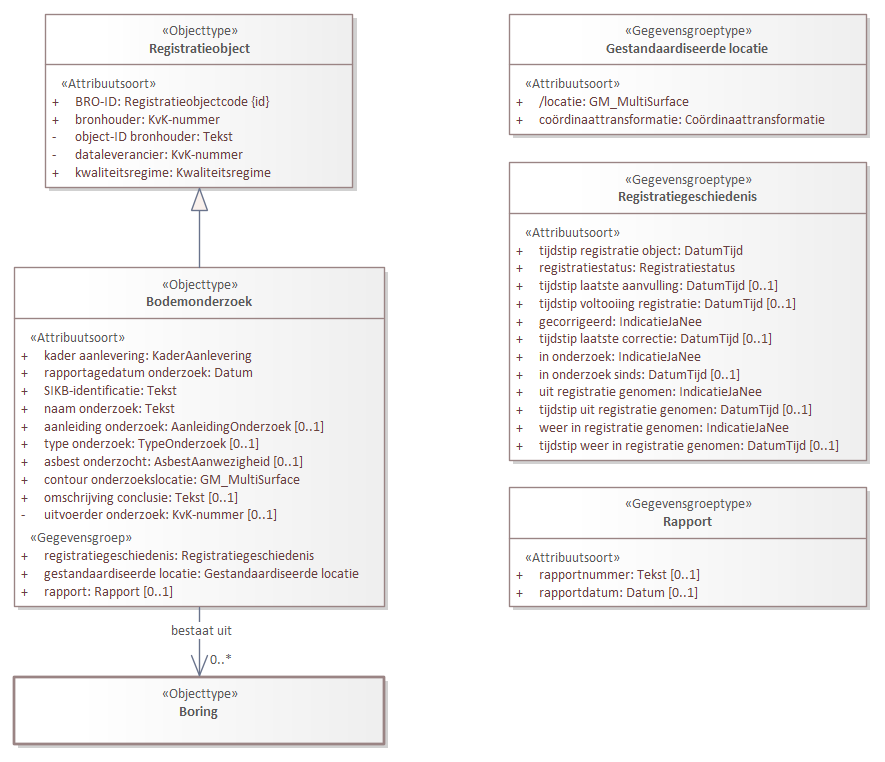
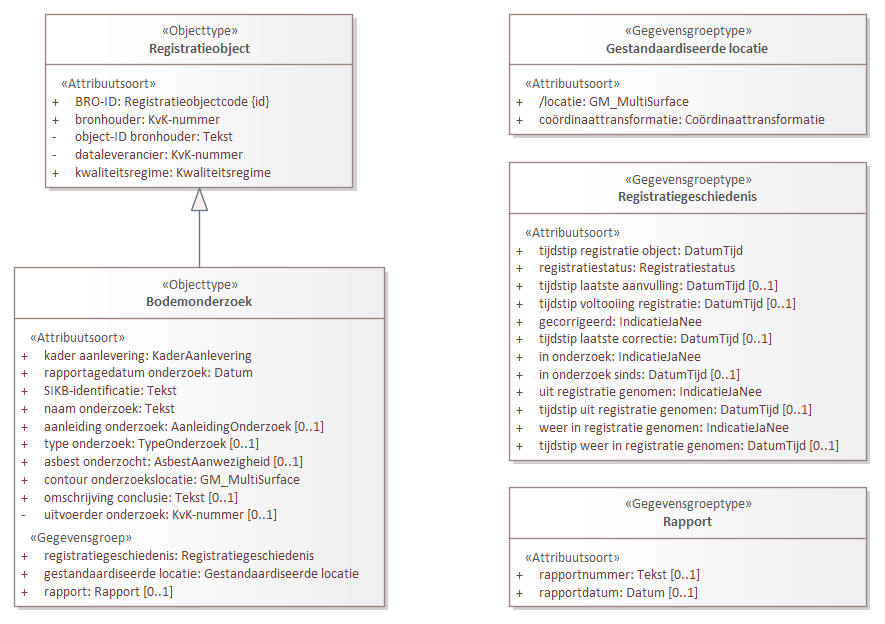
Conceptualmodel-MilieuhygienischbodemonderzoekSAD-0.2-1-20230126-20230412-170058

Changed region(s): [[0.5797, 0.0, 1.0, 1.0], [0.0, 0.0, 0.4576, 1.0], [0.9763, 0.609, 1.0, 0.6394]]

diff --git a/data/SAD-cat.msword.html b/data/SAD-cat.msword.html
@@ -15,7 +15,7 @@
    <body>
       <p>Conceptual model/Milieuhygienisch bodemonderzoek SAD/20230126</p>
       <p>Imvertor: 2.0.0</p>
-      <p>Model release: Conceptualmodel-MilieuhygienischbodemonderzoekSAD-0.2-1-20230126-20230412-164355</p>
+      <p>Model release: Conceptualmodel-MilieuhygienischbodemonderzoekSAD-0.2-1-20230126-20230412-170058</p>
       <hr>
       <section>
          <h1>Artikel 1 Definitie van registratieobject, entiteiten en attributen</h1>
@@ -218,7 +218,7 @@
                   </section>
                </section><a class="anchor" id="graph_EAID_ABAADB49_C747_4775_A739_CC832CAD59F1"></a><a class="anchor" id="global_class_Model_Bodemonderzoek"></a><section id="global_class_Model_Bodemonderzoek">
                   <h3>   Bodemonderzoek</h3>
-                  <div class="imageinfo "><img src="Images/EAID_65BDD0DF_5A17_4756_8FD6_F029CE4A290E.png" usemap="#imagemap-EAID_65BDD0DF_5A17_4756_8FD6_F029CE4A290E" alt="Diagram "><map name="imagemap-EAID_65BDD0DF_5A17_4756_8FD6_F029CE4A290E"><area shape="rect" alt="Boring" coords="14,677,385,745" href="#graph_EAID_40FFF5B9_99C5_4c21_9D72_A3D1DD3C857F"><area shape="rect" alt="Registratieobject" coords="45,14,353,188" href="#graph_EAID_67DBE718_38E0_4ead_8649_72EA0B4A2355"><area shape="rect" alt="Rapport" coords="509,487,867,607" href="#graph_EAID_1A8201CD_7E4B_4216_916D_D3AEB7E30188"><area shape="rect" alt="Registratiegeschiedenis" coords="509,162,867,461" href="#graph_EAID_12E1A894_EB8E_4245_B745_ED1899B2A278"><area shape="rect" alt="Gestandaardiseerde locatie" coords="509,14,867,135" href="#graph_EAID_69CFF81C_3747_43f5_8293_34D1745DEB53"><area shape="rect" alt="Bodemonderzoek" coords="14,267,385,607" href="#graph_EAID_ABAADB49_C747_4775_A739_CC832CAD59F1"></map><p><b></b></p>
+                  <div class="imageinfo "><img src="Images/EAID_65BDD0DF_5A17_4756_8FD6_F029CE4A290E.png" usemap="#imagemap-EAID_65BDD0DF_5A17_4756_8FD6_F029CE4A290E" alt="Diagram "><map name="imagemap-EAID_65BDD0DF_5A17_4756_8FD6_F029CE4A290E"><area shape="rect" alt="Registratieobject" coords="45,14,353,188" href="#graph_EAID_67DBE718_38E0_4ead_8649_72EA0B4A2355"><area shape="rect" alt="Rapport" coords="509,487,867,607" href="#graph_EAID_1A8201CD_7E4B_4216_916D_D3AEB7E30188"><area shape="rect" alt="Registratiegeschiedenis" coords="509,162,867,461" href="#graph_EAID_12E1A894_EB8E_4245_B745_ED1899B2A278"><area shape="rect" alt="Gestandaardiseerde locatie" coords="509,14,867,135" href="#graph_EAID_69CFF81C_3747_43f5_8293_34D1745DEB53"><area shape="rect" alt="Bodemonderzoek" coords="14,267,385,607" href="#graph_EAID_ABAADB49_C747_4775_A739_CC832CAD59F1"></map><p><b></b></p>
                   </div>
                   <table style="width: 100%;">
                      <colgroup style="width: 30%;"></colgroup>
@@ -2430,11 +2430,7 @@
                                     voor zichzelf gebruikt. Het gegeven is opgenomen omdat het inzicht biedt in de kwaliteit
                                     van het werk. Het gebruik van procedures varieert van vakgebied tot vakgebied. Voor
                                     beschrijven van grond en voor het beschrijven van gesteente bestaan aparte procedures,
-                                    die allebei worden vastgelegd.<br clear="none">
-                                    Voor booronderzoek dat onder kwaliteitsregime IMBRO valt, is de boormonsterbeschrijving
-                                    altijd onder NEN-EN-ISO 14688-1 tot stand gekomen. Een boormonsterbeschrijving die
-                                    onder NEN 5104 tot stand is gekomen, valt per definitie onder booronderzoek met kwaliteitsregime
-                                    IMBRO/A.</p>
+                                    die allebei worden vastgelegd. </p>
                                  </td>
                            </tr>
                         </tbody>
@@ -2505,20 +2501,8 @@
                            <th>Toelichting</th>
                            <td>
                               
-                              <p>Het resultaat van de boormonsterbeschrijving omvat een, twee of drie boorprofielen.
-                                 
-                                 Wanneer er meer dan een profiel is, verschillen de profielen onderling in kwaliteit
-                                 en dat wil zeggen in de mate van detail waarin de ondergrond is beschreven. Er is
-                                 een uitzondering en dat is wanneer bij sonisch boren een deel van de monsters in het
-                                 veld wordt beschreven en een deel in het laboratorium. In dat geval ontstaan er twee
-                                 boorprofielen met dezelfde beschrijfkwaliteit.
-                                 Boorprofielen kunnen elkaar gedeeltelijk overlappen en dat betekent dat er in het
-                                 betreffende diepte-interval op twee verschillende manieren bemonsterd is en de respectieve
-                                 monsters een andere beschrijfkwaliteit vergen. Overlap treedt alleen op in geboorde
-                                 trajecten. Wanneer een bepaald traject zowel geboord als weggegraven is, worden de
-                                 monsters die uit het weggraven traject zijn voortgekomen genegeerd.
-                                 Een boormonsterbeschrijving die onder NEN 5104 tot stand is gekomen heeft altijd maar
-                                 een profiel.</p>
+                              <p>Het resultaat van de boormonsterbeschrijving omvat één boorprofiel. Een boormonsterbeschrijving
+                                 die onder NEN 5104 tot stand is gekomen heeft altijd maar een profiel.</p>
                               </td>
                         </tr>
                      </tbody>
@@ -2867,7 +2851,7 @@
                            </tr>
                         </tbody>
                      </table>
-                     </section><a class="anchor" id="detail_d88001e11902"></a><section id="detail_d88001e11902">
+                     </section><a class="anchor" id="detail_d88001e11891"></a><section id="detail_d88001e11891">
                      <h4>  grond</h4>
                      <table style="width: 100%;">
                         <colgroup style="width: 30%;"></colgroup>
@@ -2900,7 +2884,7 @@
                            </tr>
                         </tbody>
                      </table>
-                  </section><a class="anchor" id="detail_d88001e12087"></a><section id="detail_d88001e12087">
+                  </section><a class="anchor" id="detail_d88001e12076"></a><section id="detail_d88001e12076">
                      <h4>  kleur</h4>
                      <table style="width: 100%;">
                         <colgroup style="width: 30%;"></colgroup>
@@ -2933,7 +2917,7 @@
                            </tr>
                         </tbody>
                      </table>
-                  </section><a class="anchor" id="detail_d88001e12272"></a><section id="detail_d88001e12272">
+                  </section><a class="anchor" id="detail_d88001e12261"></a><section id="detail_d88001e12261">
                      <h4>  bijzonderheid</h4>
                      <table style="width: 100%;">
                         <colgroup style="width: 30%;"></colgroup>
@@ -3791,7 +3775,7 @@
                               <th>Definitie</th>
                               <td>
                                  
-                                 <p>De identificatie die het filter heeft binnen de informatieketen milieukwaliteit.</p>
+                                 <p>De identificatie die de peilbuis heeft binnen de informatieketen milieukwaliteit.</p>
                                  </td>
                            </tr>
                            <tr>
@@ -3839,7 +3823,7 @@
                               <th>Definitie</th>
                               <td>
                                  
-                                 <p>De herkenbare naam van het filter.</p>
+                                 <p>De herkenbare naam van de peilbuis.</p>
                                  </td>
                            </tr>
                            <tr>
@@ -3950,7 +3934,7 @@
                            </tr>
                         </tbody>
                      </table>
-                     </section><a class="anchor" id="detail_d88001e16221"></a><section id="detail_d88001e16221">
+                     </section><a class="anchor" id="detail_d88001e16210"></a><section id="detail_d88001e16210">
                      <h4>  aangeleverde verticale positie</h4>
                      <table style="width: 100%;">
                         <colgroup style="width: 30%;"></colgroup>
@@ -4167,8 +4151,8 @@
                            </tr>
                         </tbody>
                      </table>
-                     </section><a class="anchor" id="detail_association_Model_Grondwatermonstername_heeft"></a><section id="detail_association_Model_Grondwatermonstername_heeft">
-                     <h4>  heeft</h4>
+                     </section><a class="anchor" id="detail_association_Model_Grondwatermonstername_leidttotveldmeting"></a><section id="detail_association_Model_Grondwatermonstername_leidttotveldmeting">
+                     <h4>  leidt tot veldmeting</h4>
                      <table style="width: 100%;">
                         <colgroup style="width: 30%;"></colgroup>
                         <colgroup style="width: 70%;"></colgroup>
@@ -4195,7 +4179,7 @@
                            </tr>
                            <tr>
                               <th>Relatierol naam</th>
-                              <td>heeft</td>
+                              <td>leidt tot veldmeting</td>
                            </tr>
                            <tr>
                               <th>Bron</th>
@@ -4209,8 +4193,8 @@
                            </tr>
                         </tbody>
                      </table>
-                  </section><a class="anchor" id="detail_association_Model_Grondwatermonstername_leidttot"></a><section id="detail_association_Model_Grondwatermonstername_leidttot">
-                     <h4>  leidt tot</h4>
+                  </section><a class="anchor" id="detail_association_Model_Grondwatermonstername_leidttotveldwaarneming"></a><section id="detail_association_Model_Grondwatermonstername_leidttotveldwaarneming">
+                     <h4>  leidt tot veldwaarneming</h4>
                      <table style="width: 100%;">
                         <colgroup style="width: 30%;"></colgroup>
                         <colgroup style="width: 70%;"></colgroup>
@@ -4237,7 +4221,7 @@
                            </tr>
                            <tr>
                               <th>Relatierol naam</th>
-                              <td>leidt tot</td>
+                              <td>leidt tot veldwaarneming</td>
                            </tr>
                            <tr>
                               <th>Bron</th>
@@ -4311,7 +4295,7 @@
                            </tr>
                         </tbody>
                      </table>
-                     </section><a class="anchor" id="detail_d88001e17507"></a><section id="detail_d88001e17507">
+                     </section><a class="anchor" id="detail_d88001e17496"></a><section id="detail_d88001e17496">
                      <h4>  kleur</h4>
                      <table style="width: 100%;">
                         <colgroup style="width: 30%;"></colgroup>
@@ -4409,13 +4393,12 @@
                               <th>Toelichting</th>
                               <td>
                                  
-                                 <p>In het veld wordt vaak gemeten: zuurstofgehalte, zuurgraad, temperatuur, troebelheid,
-                                    elektrisch geleidingsvermogen en troebelheid. Indien de parameter gemeten is in het
-                                    veld, moet de gemeten waarde opgenomen worden in de basisregistratie ondergrond.
+                                 <p>In het veld wordt vaak gemeten: zuurgraad, elektrisch geleidingsvermogen, zuurstofgehalte,
+                                    temperatuur en troebelheid. Indien de parameter gemeten is in het veld, moet de gemeten
+                                    waarde opgenomen worden in de basisregistratie ondergrond.
                                     Het ID is het identificerend gegeven van de parameter en staat in de referentielijst
                                     <em>Parameterlijst</em>. ID's worden beheerd door SIKB en het Informatiehuis Water (IHW). In de basisregistratie
-                                    ondergrond is het ID, samen met de Aquocode, het CASnummer <em> </em> (indien van toepassing), een omschrijving, de eenheid en de hoedanigheid opgenomen
-                                    in de Parameterlijst.</p>
+                                    ondergrond is het ID, samen met de Aquocode, het CASnummer <em>* (indien van toepassing), een omschrijving,</em>de eenheid en de hoedanigheid * opgenomen in de Parameterlijst.</p>
                                  </td>
                            </tr>
                         </tbody>

diff --git a/data/SAD-cat.respec.html b/data/SAD-cat.respec.html
@@ -194,7 +194,7 @@
          </section>
       </section><a class="anchor" id="graph_EAID_ABAADB49_C747_4775_A739_CC832CAD59F1"></a><a class="anchor" id="global_class_Model_Bodemonderzoek"></a><section id="global_class_Model_Bodemonderzoek">
          <h3>   Bodemonderzoek</h3>
-         <div class="imageinfo "><img src="data/Images/EAID_65BDD0DF_5A17_4756_8FD6_F029CE4A290E.png" usemap="#imagemap-EAID_65BDD0DF_5A17_4756_8FD6_F029CE4A290E" alt="Diagram "><map name="imagemap-EAID_65BDD0DF_5A17_4756_8FD6_F029CE4A290E"><area shape="rect" alt="Boring" coords="14,677,385,745" href="#graph_EAID_40FFF5B9_99C5_4c21_9D72_A3D1DD3C857F"><area shape="rect" alt="Registratieobject" coords="45,14,353,188" href="#graph_EAID_67DBE718_38E0_4ead_8649_72EA0B4A2355"><area shape="rect" alt="Rapport" coords="509,487,867,607" href="#graph_EAID_1A8201CD_7E4B_4216_916D_D3AEB7E30188"><area shape="rect" alt="Registratiegeschiedenis" coords="509,162,867,461" href="#graph_EAID_12E1A894_EB8E_4245_B745_ED1899B2A278"><area shape="rect" alt="Gestandaardiseerde locatie" coords="509,14,867,135" href="#graph_EAID_69CFF81C_3747_43f5_8293_34D1745DEB53"><area shape="rect" alt="Bodemonderzoek" coords="14,267,385,607" href="#graph_EAID_ABAADB49_C747_4775_A739_CC832CAD59F1"></map><p><b></b></p>
+         <div class="imageinfo "><img src="data/Images/EAID_65BDD0DF_5A17_4756_8FD6_F029CE4A290E.png" usemap="#imagemap-EAID_65BDD0DF_5A17_4756_8FD6_F029CE4A290E" alt="Diagram "><map name="imagemap-EAID_65BDD0DF_5A17_4756_8FD6_F029CE4A290E"><area shape="rect" alt="Registratieobject" coords="45,14,353,188" href="#graph_EAID_67DBE718_38E0_4ead_8649_72EA0B4A2355"><area shape="rect" alt="Rapport" coords="509,487,867,607" href="#graph_EAID_1A8201CD_7E4B_4216_916D_D3AEB7E30188"><area shape="rect" alt="Registratiegeschiedenis" coords="509,162,867,461" href="#graph_EAID_12E1A894_EB8E_4245_B745_ED1899B2A278"><area shape="rect" alt="Gestandaardiseerde locatie" coords="509,14,867,135" href="#graph_EAID_69CFF81C_3747_43f5_8293_34D1745DEB53"><area shape="rect" alt="Bodemonderzoek" coords="14,267,385,607" href="#graph_EAID_ABAADB49_C747_4775_A739_CC832CAD59F1"></map><p><b></b></p>
          </div>
          <table style="width: 100%;">
             <colgroup style="width: 30%;"></colgroup>
@@ -2406,11 +2406,7 @@
                            voor zichzelf gebruikt. Het gegeven is opgenomen omdat het inzicht biedt in de kwaliteit
                            van het werk. Het gebruik van procedures varieert van vakgebied tot vakgebied. Voor
                            beschrijven van grond en voor het beschrijven van gesteente bestaan aparte procedures,
-                           die allebei worden vastgelegd.<br clear="none">
-                           Voor booronderzoek dat onder kwaliteitsregime IMBRO valt, is de boormonsterbeschrijving
-                           altijd onder NEN-EN-ISO 14688-1 tot stand gekomen. Een boormonsterbeschrijving die
-                           onder NEN 5104 tot stand is gekomen, valt per definitie onder booronderzoek met kwaliteitsregime
-                           IMBRO/A.</p>
+                           die allebei worden vastgelegd. </p>
                         </td>
                   </tr>
                </tbody>
@@ -2481,20 +2477,8 @@
                   <th>Toelichting</th>
                   <td>
                      
-                     <p>Het resultaat van de boormonsterbeschrijving omvat een, twee of drie boorprofielen.
-                        
-                        Wanneer er meer dan een profiel is, verschillen de profielen onderling in kwaliteit
-                        en dat wil zeggen in de mate van detail waarin de ondergrond is beschreven. Er is
-                        een uitzondering en dat is wanneer bij sonisch boren een deel van de monsters in het
-                        veld wordt beschreven en een deel in het laboratorium. In dat geval ontstaan er twee
-                        boorprofielen met dezelfde beschrijfkwaliteit.
-                        Boorprofielen kunnen elkaar gedeeltelijk overlappen en dat betekent dat er in het
-                        betreffende diepte-interval op twee verschillende manieren bemonsterd is en de respectieve
-                        monsters een andere beschrijfkwaliteit vergen. Overlap treedt alleen op in geboorde
-                        trajecten. Wanneer een bepaald traject zowel geboord als weggegraven is, worden de
-                        monsters die uit het weggraven traject zijn voortgekomen genegeerd.
-                        Een boormonsterbeschrijving die onder NEN 5104 tot stand is gekomen heeft altijd maar
-                        een profiel.</p>
+                     <p>Het resultaat van de boormonsterbeschrijving omvat één boorprofiel. Een boormonsterbeschrijving
+                        die onder NEN 5104 tot stand is gekomen heeft altijd maar een profiel.</p>
                      </td>
                </tr>
             </tbody>
@@ -2843,7 +2827,7 @@
                   </tr>
                </tbody>
             </table>
-            </section><a class="anchor" id="detail_d88001e11902"></a><section id="detail_d88001e11902">
+            </section><a class="anchor" id="detail_d88001e11891"></a><section id="detail_d88001e11891">
             <h4>  grond</h4>
             <table style="width: 100%;">
                <colgroup style="width: 30%;"></colgroup>
@@ -2876,7 +2860,7 @@
                   </tr>
                </tbody>
             </table>
-         </section><a class="anchor" id="detail_d88001e12087"></a><section id="detail_d88001e12087">
+         </section><a class="anchor" id="detail_d88001e12076"></a><section id="detail_d88001e12076">
             <h4>  kleur</h4>
             <table style="width: 100%;">
                <colgroup style="width: 30%;"></colgroup>
@@ -2909,7 +2893,7 @@
                   </tr>
                </tbody>
             </table>
-         </section><a class="anchor" id="detail_d88001e12272"></a><section id="detail_d88001e12272">
+         </section><a class="anchor" id="detail_d88001e12261"></a><section id="detail_d88001e12261">
             <h4>  bijzonderheid</h4>
             <table style="width: 100%;">
                <colgroup style="width: 30%;"></colgroup>
@@ -3767,7 +3751,7 @@
                      <th>Definitie</th>
                      <td>
                         
-                        <p>De identificatie die het filter heeft binnen de informatieketen milieukwaliteit.</p>
+                        <p>De identificatie die de peilbuis heeft binnen de informatieketen milieukwaliteit.</p>
                         </td>
                   </tr>
                   <tr>
@@ -3815,7 +3799,7 @@
                      <th>Definitie</th>
                      <td>
                         
-                        <p>De herkenbare naam van het filter.</p>
+                        <p>De herkenbare naam van de peilbuis.</p>
                         </td>
                   </tr>
                   <tr>
@@ -3926,7 +3910,7 @@
                   </tr>
                </tbody>
             </table>
-            </section><a class="anchor" id="detail_d88001e16221"></a><section id="detail_d88001e16221">
+            </section><a class="anchor" id="detail_d88001e16210"></a><section id="detail_d88001e16210">
             <h4>  aangeleverde verticale positie</h4>
             <table style="width: 100%;">
                <colgroup style="width: 30%;"></colgroup>
@@ -4143,8 +4127,8 @@
                   </tr>
                </tbody>
             </table>
-            </section><a class="anchor" id="detail_association_Model_Grondwatermonstername_heeft"></a><section id="detail_association_Model_Grondwatermonstername_heeft">
-            <h4>  heeft</h4>
+            </section><a class="anchor" id="detail_association_Model_Grondwatermonstername_leidttotveldmeting"></a><section id="detail_association_Model_Grondwatermonstername_leidttotveldmeting">
+            <h4>  leidt tot veldmeting</h4>
             <table style="width: 100%;">
                <colgroup style="width: 30%;"></colgroup>
                <colgroup style="width: 70%;"></colgroup>
@@ -4171,7 +4155,7 @@
                   </tr>
                   <tr>
                      <th>Relatierol naam</th>
-                     <td>heeft</td>
+                     <td>leidt tot veldmeting</td>
                   </tr>
                   <tr>
                      <th>Bron</th>
@@ -4185,8 +4169,8 @@
                   </tr>
                </tbody>
             </table>
-         </section><a class="anchor" id="detail_association_Model_Grondwatermonstername_leidttot"></a><section id="detail_association_Model_Grondwatermonstername_leidttot">
-            <h4>  leidt tot</h4>
+         </section><a class="anchor" id="detail_association_Model_Grondwatermonstername_leidttotveldwaarneming"></a><section id="detail_association_Model_Grondwatermonstername_leidttotveldwaarneming">
+            <h4>  leidt tot veldwaarneming</h4>
             <table style="width: 100%;">
                <colgroup style="width: 30%;"></colgroup>
                <colgroup style="width: 70%;"></colgroup>
@@ -4213,7 +4197,7 @@
                   </tr>
                   <tr>
                      <th>Relatierol naam</th>
-                     <td>leidt tot</td>
+                     <td>leidt tot veldwaarneming</td>
                   </tr>
                   <tr>
                      <th>Bron</th>
@@ -4287,7 +4271,7 @@
                   </tr>
                </tbody>
             </table>
-            </section><a class="anchor" id="detail_d88001e17507"></a><section id="detail_d88001e17507">
+            </section><a class="anchor" id="detail_d88001e17496"></a><section id="detail_d88001e17496">
             <h4>  kleur</h4>
             <table style="width: 100%;">
                <colgroup style="width: 30%;"></colgroup>
@@ -4385,13 +4369,12 @@
                      <th>Toelichting</th>
                      <td>
                         
-                        <p>In het veld wordt vaak gemeten: zuurstofgehalte, zuurgraad, temperatuur, troebelheid,
-                           elektrisch geleidingsvermogen en troebelheid. Indien de parameter gemeten is in het
-                           veld, moet de gemeten waarde opgenomen worden in de basisregistratie ondergrond.
+                        <p>In het veld wordt vaak gemeten: zuurgraad, elektrisch geleidingsvermogen, zuurstofgehalte,
+                           temperatuur en troebelheid. Indien de parameter gemeten is in het veld, moet de gemeten
+                           waarde opgenomen worden in de basisregistratie ondergrond.
                            Het ID is het identificerend gegeven van de parameter en staat in de referentielijst
                            <em>Parameterlijst</em>. ID's worden beheerd door SIKB en het Informatiehuis Water (IHW). In de basisregistratie
-                           ondergrond is het ID, samen met de Aquocode, het CASnummer <em> </em> (indien van toepassing), een omschrijving, de eenheid en de hoedanigheid opgenomen
-                           in de Parameterlijst.</p>
+                           ondergrond is het ID, samen met de Aquocode, het CASnummer <em>* (indien van toepassing), een omschrijving,</em>de eenheid en de hoedanigheid * opgenomen in de Parameterlijst.</p>
                         </td>
                   </tr>
                </tbody>
